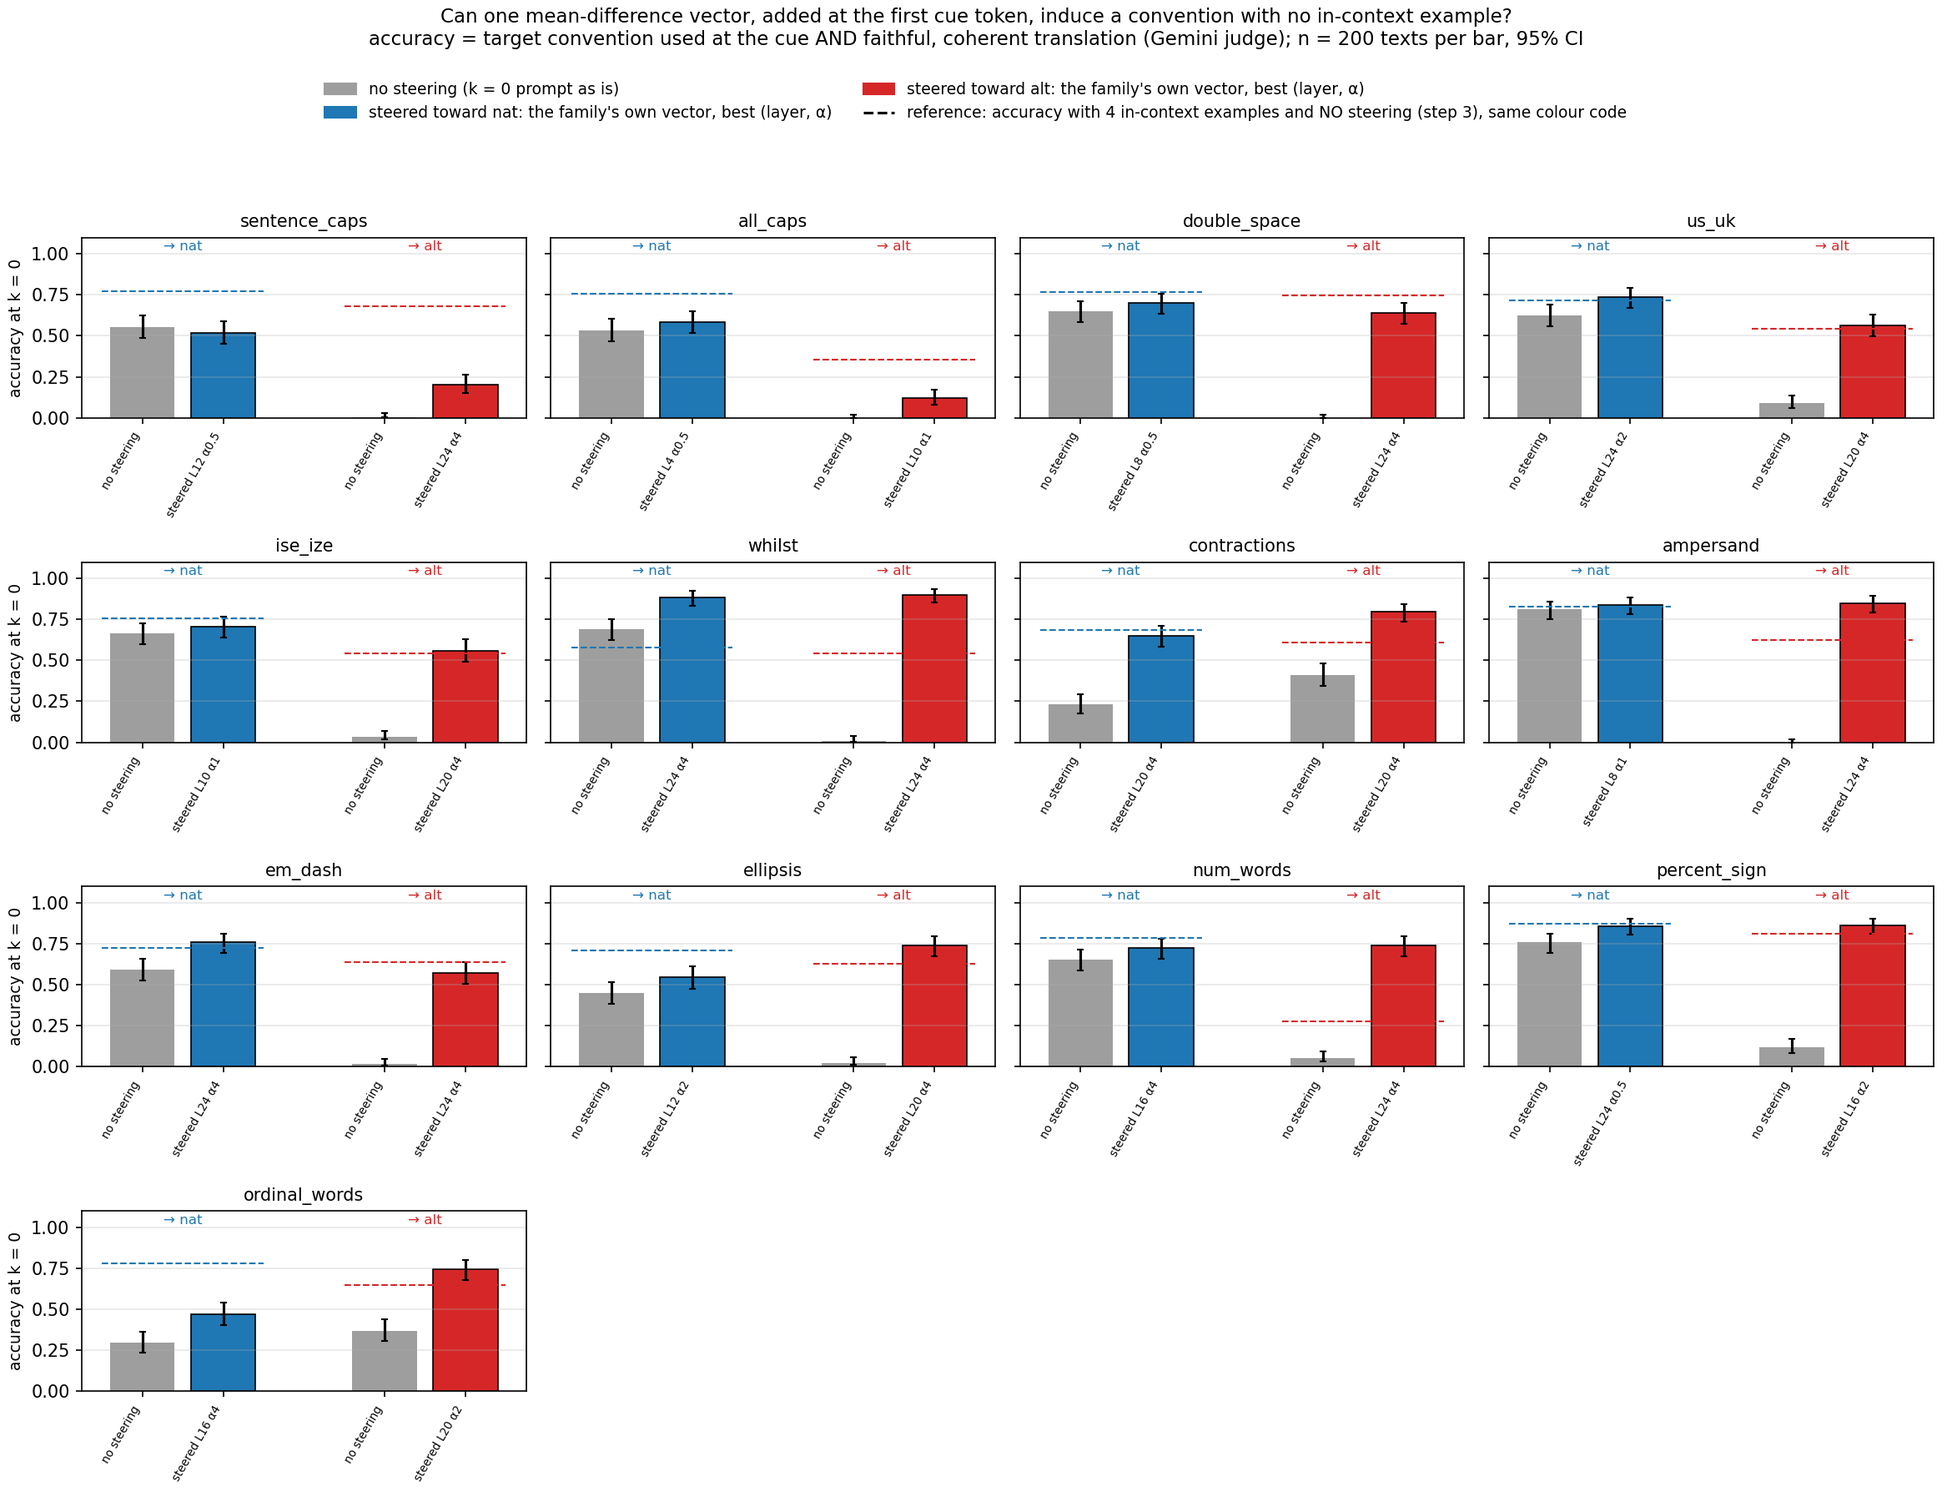
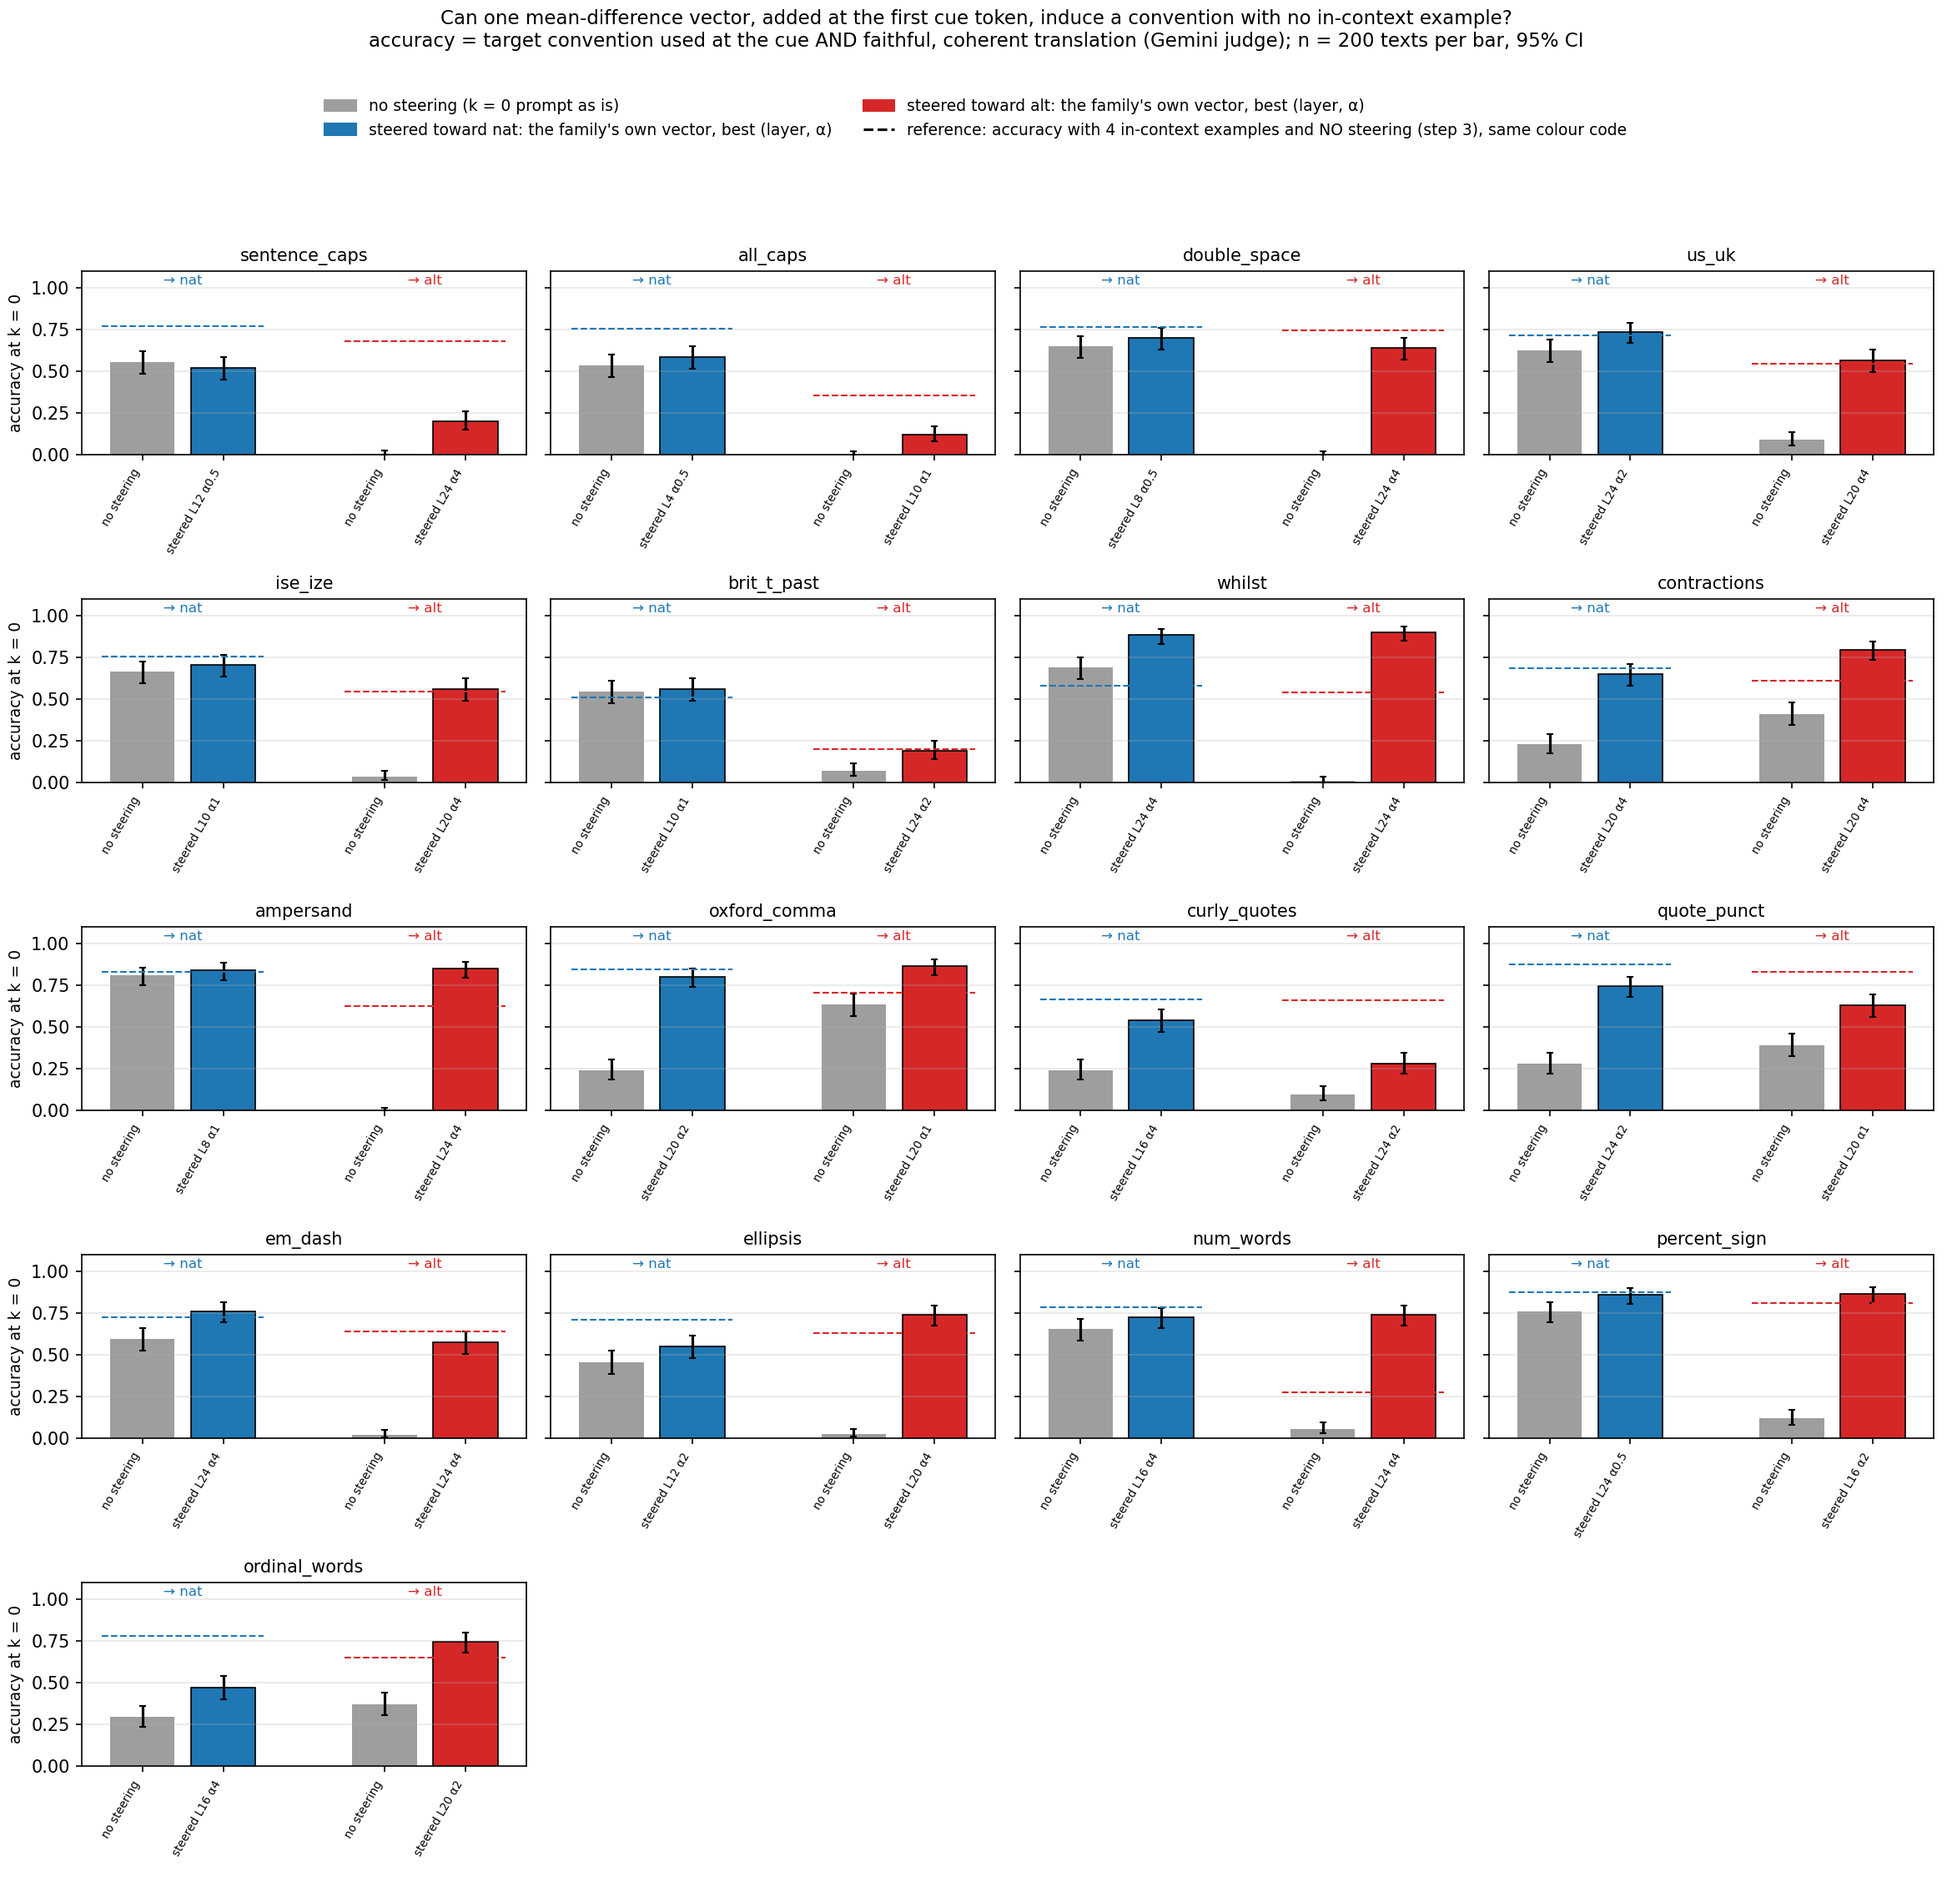
style_translation step 4 complete: all 17 families judged; README table/findings updated; judge robustness (truncated JSON, identical-to-reference rule)

diff --git a/src/sandbox/style_translation/judge_rollouts.py b/src/sandbox/style_translation/judge_rollouts.py
@@ -62,6 +62,8 @@ CAPNOTE = (" NOTE: this completion was CUT OFF by a token limit before the sente
 def judge_one(key, model, r):
     if not r["tail"].strip():
         return r["doc_id"], r["style"], r["k"], {"ok": False, "notes": "empty completion", "judge": model}
+    if r["tail"].strip() == r["ref_sentence"].strip():   # identical to the reference -> faithful by definition (the model echoes the prompt on these)
+        return r["doc_id"], r["style"], r["k"], {"ok": True, "notes": "identical to the reference (deterministic)", "judge": "rule"}
     body = {"model": model, "temperature": 0.0, "max_tokens": 120,
             "messages": [{"role": "user", "content": PROMPT.format(
                 capnote=CAPNOTE if r["capped"] else "", es=r["es_text"], ctx=r["context_tail"],
@@ -72,7 +74,13 @@ def judge_one(key, model, r):
             resp.raise_for_status()
             raw = resp.json()["choices"][0]["message"]["content"].strip()
             raw = re.sub(r"^```(?:json)?|```$", "", raw, flags=re.M).strip()
-            v, _ = json.JSONDecoder(strict=False).raw_decode(raw[raw.index("{"):])
+            try:
+                v, _ = json.JSONDecoder(strict=False).raw_decode(raw[raw.index("{"):])
+            except (ValueError, json.JSONDecodeError):
+                m = re.search(r'"ok"\s*:\s*(true|false)', raw)   # notes ran past max_tokens -> unterminated JSON; verdict still present
+                if not m:
+                    raise
+                v = {"ok": m.group(1) == "true", "notes": raw.split('"notes"', 1)[-1].strip(' :"')[:200] + " [truncated]"}
             return r["doc_id"], r["style"], r["k"], {"ok": bool(v.get("ok")), "notes": str(v.get("notes", ""))[:200], "judge": model}
         except Exception as e:
             if attempt == 4:

diff --git a/results/style_translation/steering/README.md b/results/style_translation/steering/README.md
@@ -41,16 +41,7 @@ pairs/cue tokens in `dataset_files/style_translation/`.
 | `records.npz` | per-completion arrays of the confirm run |
 
 ## Findings
-**Status (2026-09-08): 13 of 17 families fully graded.** The OpenRouter workspace hit its $100
-lifetime budget mid-judging; `brit_t_past`, `oxford_comma`, `curly_quotes`, `quote_punct` (5,600
-completions) and 7 `ellipsis` records have GPU rollouts but no faithfulness verdict yet and are
-excluded from `best_config.csv` / `steering_summary.*` (their screens are in `screen.csv` /
-`screen_layer_alpha.png`). To finish once the budget is restored:
-`judge_rollouts.py --dir artifacts/style_translation/steering/confirm --families brit_t_past oxford_comma curly_quotes quote_punct ellipsis --workers 48`
-then `steer_analyze.py` (both idempotent). Style-only confirm rates for the four pending families
-(n = 200, best of top-2): brit_t_past → -t past 0.33 (base 0.09), oxford_comma → serial comma 0.88
-(base 0.27) / → none 0.96 (base 0.70), curly_quotes → straight 0.82 (base 0.42) / → curly 0.38
-(base 0.18, 0.56 unscorable), quote_punct → inside 0.87 (base 0.31) / → outside 0.72 (base 0.44).
+**Status (2026-09-08): all 17 families fully graded** (judge finished after the OpenRouter budget was restored; 23,800 confirm completions).
 
 **Best (L, α) per family and target, full grading, n = 200** (`best_config.csv`; "k4" = step-3
 accuracy with 4 in-context examples; "cf" = another family's vector at the same setting):
@@ -62,9 +53,13 @@ accuracy with 4 in-context examples; "cf" = another family's vector at the same 
 | double_space | two spaces after period | 24 | 4 | .00 → **.64** | .00 | .74 | one space | 8 | 0.5 | .65 → .70 | .69 | .77 |
 | us_uk | British spelling | 20 | 4 | .09 → **.56** | .55 | .55 | American | 24 | 2 | .62 → .73 | .65 | .71 |
 | ise_ize | -ise | 20 | 4 | .04 → **.56** | .27 | .55 | -ize | 10 | 1 | .67 → .70 | .70 | .76 |
+| brit_t_past | -t past (learnt, spelt) | 24 | 2 | .07 → **.19** | .11 | .20 | -ed past | 10 | 1 | .55 → .56 | .58 | .51 |
 | whilst | whilst/amongst | 24 | 4 | .01 → **.90** | .01 | .54 | while/among | 24 | 4 | .69 → .89 | .67 | .58 |
 | contractions | expanded (do not) | 20 | 4 | .41 → **.80** | .23 | .61 | contracted (don't) | 20 | 4 | .23 → .65 | .07 | .69 |
 | ampersand | & | 24 | 4 | .00 → **.85** | .00 | .62 | and | 8 | 1 | .81 → .84 | .83 | .83 |
+| oxford_comma | no serial comma | 20 | 1 | .64 → **.86** | .73 | .70 | serial comma | 20 | 2 | .24 → .80 | .18 | .84 |
+| curly_quotes | curly quotes | 24 | 2 | .10 → **.28** | .04 | .66 | straight quotes | 16 | 4 | .24 → .54 | .12 | .67 |
+| quote_punct | punctuation outside quotes | 20 | 1 | .39 → **.63** | .49 | .83 | inside quotes | 24 | 2 | .28 → .74 | .32 | .88 |
 | em_dash | spaced hyphen | 24 | 4 | .02 → **.57** | .00 | .64 | em dash | 24 | 4 | .59 → .76 | .10 | .72 |
 | ellipsis | … character | 20 | 4 | .03 → **.74** | .02 | .63 | three periods | 12 | 2 | .45 → .55 | .48 | .71 |
 | num_words | spelled cardinals | 24 | 4 | .06 → **.74** | .53 | .28 | digits | 16 | 4 | .66 → .72 | .64 | .79 |
@@ -72,14 +67,19 @@ accuracy with 4 in-context examples; "cf" = another family's vector at the same 
 | ordinal_words | spelled ordinals | 20 | 2 | .37 → **.74** | .46 | .65 | 1st/2nd | 16 | 4 | .29 → .47 | .38 | .78 |
 
 1. **One vector at one token induces most conventions with no example.** Toward the rare (alt)
-   convention, steering the single cue token lifts full accuracy from ≈0 to 0.56–0.90 in 9 of 13
-   families. In 7 of them the steered k = 0 accuracy matches or beats 4 in-context examples
-   (whilst .90 vs .54, ampersand .85 vs .62, contractions .80 vs .61, num_words .74 vs .28,
-   ellipsis .74 vs .63, ordinal_words .74 vs .65, percent_sign .86 vs .81); us_uk and ise_ize tie
-   their k = 4 value (.56 vs .55). num_words is the clearest case: in-context examples never taught
+   convention, steering the single cue token lifts full accuracy to 0.56–0.90 in 13 of 17
+   families. In 10 of them the steered k = 0 accuracy matches or beats 4 in-context examples
+   (whilst .90 vs .54, oxford_comma .86 vs .70, percent_sign .86 vs .81, ampersand .85 vs .62,
+   contractions .80 vs .61, num_words .74 vs .28, ellipsis .74 vs .63, ordinal_words .74 vs .65;
+   us_uk and ise_ize tie at .56 vs .55). Below the k = 4 reference: double_space (.64 vs .74),
+   quote_punct (.63 vs .83), em_dash (.57 vs .64), curly_quotes (.28 vs .66; .56 unscorable —
+   quotes dropped or « » copied, as at k = 0 in step 3), sentence_caps (.20 vs .68), all_caps (.12
+   vs .35), and brit_t_past (.19 vs .20 — neither examples nor the vector make GPT-J write
+   "learnt/spelt"; style-only .23). num_words is the clearest case: in-context examples never taught
    spelled-out cardinals (≤ .37 in step 3, the Spanish shows digits) but the vector does (.74).
 2. **Where steering falls short of ICL it is the translation that breaks, not the style.** The
-   style-only rate is 0.79–1.00 in every family except all_caps (.56) and us_uk/ise_ize (.65).
+   style-only rate is 0.72–1.00 in every family except all_caps (.56), us_uk/ise_ize (.65),
+   curly_quotes (.38) and brit_t_past (.23).
    sentence_caps (style .94, accuracy .20) and all_caps (.56 / .12) lose because the α = 4 push at
    the first sentence produces fragments, restarts and repetition loops: judge OK falls from .56
    (base) to .20 and from .54 to .28. Elsewhere the judge OK rate under steering stays within a
@@ -87,17 +87,18 @@ accuracy with 4 in-context examples; "cf" = another family's vector at the same 
    changes the convention without damaging the translation.
 3. **Toward the house (nat) convention the gain is bounded by the baseline**: nat is already the
    k = 0 default in most families, so steering adds 0–.05 there. The exceptions are the families
-   whose k = 0 prior is the alt pole — contractions (.23 → .65), ordinal_words (.29 → .47) — plus
-   whilst (.69 → .89) and em_dash (.59 → .76), where the vector removes the unscorable/mixed
-   completions of the baseline.
-4. **Layer and scale.** The best alt setting is late (L20/24 in 11 of 13, L16 for percent_sign,
-   L10 for all_caps) and at the top of the α grid (α = 4 in 9 of 13): the screen curves rise
+   whose k = 0 prior is the alt pole — oxford_comma (.24 → .80), quote_punct (.28 → .74),
+   contractions (.23 → .65), curly_quotes (.24 → .54), ordinal_words (.29 → .47) — plus whilst
+   (.69 → .89) and em_dash (.59 → .76), where the vector removes the unscorable/mixed completions
+   of the baseline.
+4. **Layer and scale.** The best alt setting is late (L20/24 in 15 of 17, L16 for percent_sign,
+   L10 for all_caps) and high on the α grid (α = 4 in 9 of 17, α = 2 in 5, α = 1 in 3): the screen curves rise
    monotonically with α at L16–24 for most alt targets. Since the screen ranks on style only, it
    picks the largest α even where α = 4 costs faithfulness; a smaller α could score higher on
    full accuracy for sentence_caps / all_caps (not tested — the confirm run took the screen's
    top-2 as specified). nat targets peak earlier and at small α (L4–12, α = 0.5–1) where the
    baseline is already high.
-5. **Controls.** The counterfactual-family vector leaves accuracy at baseline in 7 of 13 alt
+5. **Controls.** The counterfactual-family vector leaves accuracy near baseline in 10 of 17 alt
    targets and never reaches the own-vector value, except where two families share a convention
    axis — and those transfers are interpretable: the ise_ize (-ise) vector moves us_uk to British
    spelling as well as us_uk's own vector (.55 vs .56); brit_t_past's -t-past vector moves ise_ize

diff --git a/WORKLOG.md b/WORKLOG.md
@@ -9120,3 +9120,4 @@ last-bit BLAS/SVD differences vs the 2026-09-03 file, but not verifiable (old co
 **Addendum 2026-09-08 (user request):** steering_summary.png now has a legend (dashed = step-3 accuracy with 4 in-context examples, no steering) and names the control family on each axis. us_uk ↔ ise_ize transfer explained by vector geometry: cos 0.52 at L20 (median pair 0.01), ise_ize's projection on the us_uk direction = 85 % of |v_us_uk| — a shared British-English direction at the cue token; added to the README.
 **Addendum 2026-09-08 (user request):** headline `steering_summary.png` now shows only unsteered vs steered (plus the k = 4 reference line); the other-family control bars moved to `steering_summary_controls.png` (detailed view).
 **Addendum 2026-09-08 (user request):** screen heatmaps replaced by `screen_layer_alpha.png` — target-style rate vs layer, one line per α, α = 0 as a dashed reference (17 families × 2 targets).
+**Addendum 2026-09-08 — step 4 COMPLETE (all 17 families):** OpenRouter key rotated by the user (new workspace; guardrail lifted); judged the remaining 5,607 confirm completions (`judge_rollouts.py --dir … --families brit_t_past oxford_comma curly_quotes quote_punct ellipsis`), re-ran `steer_analyze.py`. Judge fixes: regex fallback for truncated JSON; completion == reference → OK by rule (4 records). New rows: oxford_comma → no serial comma .64→.86 (k4 .70) / → serial .24→.80; quote_punct → outside .39→.63 (k4 .83) / → inside .28→.74; curly_quotes → curly .10→.28 (.56 unscorable) / → straight .24→.54; brit_t_past → -t past .07→.19 (k4 .20). Totals: rare convention lifted to .56–.90 in 13/17, matches/beats 4 ICL examples in 10/17. README table and findings updated; unblocked, nothing pending.
